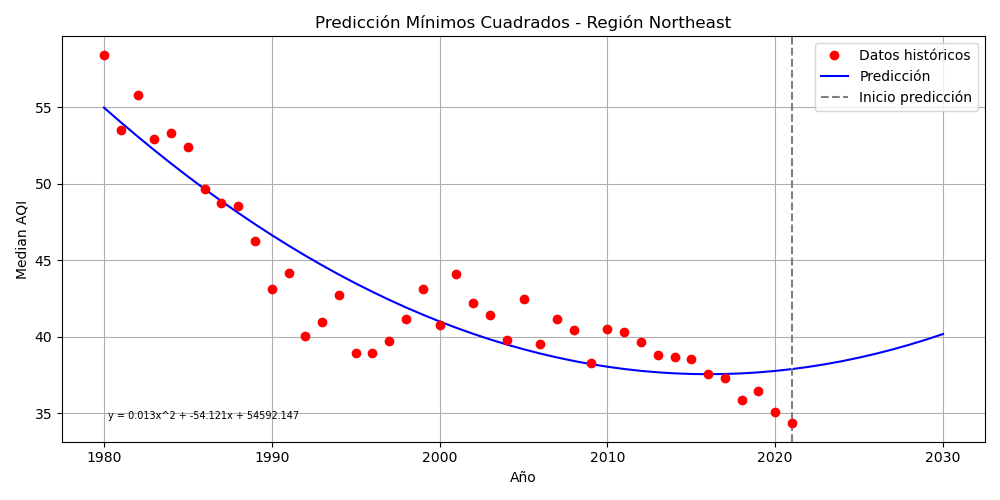
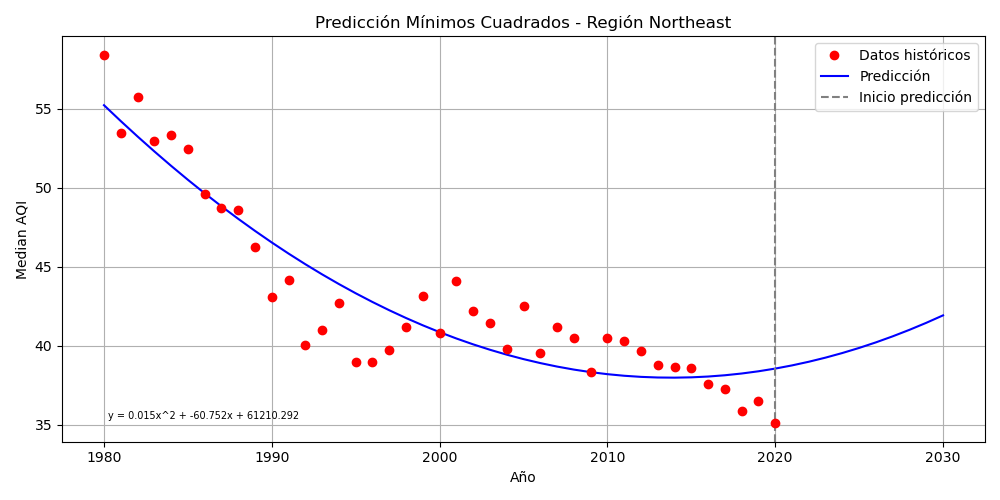
Avance en el informe y cambio de los codigos para graficar

diff --git a/README.md b/README.md
@@ -3,6 +3,95 @@
 
 ## Grupo2_Salud
 
-### Modalidad de trabajo
-- Se está haciendo uso de Notebooks para la implementación temporal del código, esto con el fin de llevar un mejor registro de los cambios o mejorar a realizar en los distintos segmentos del código.
-- Una vez que se concluyan las correcciones, cambios o mejoras del código se unificará en un solo proyecto de Phyton.
+### Integrantes:
+
+- JUSTAILS: Justin Guevara  
+- DRKca089: Derek Cahuate  
+
+### Descripción del proyecto
+
+El proyecto consiste en el análisis de la variación histórica del Índice de Calidad del Aire (AQI) en Estados Unidos durante el periodo 1980–2021, utilizando datos recopilados por la Agencia de Protección Ambiental de los Estados Unidos (EPA). El análisis se realiza agrupando los registros según las cuatro regiones definidas por el Censo de Estados Unidos: Northeast, Midwest, South y West.
+
+Los datos utilizados se limpiaron, normalizarón y agruparon en regiones. Luego se aplicaron los métodos númericos para modelar el comportamiento del AQI. Se utiliza la interpolación del spline cúbico para representar la tendencia histórica del Median AQI, y se usa mínimos cuadrados para realizar extrapolaciones.
+
+Finalmente, los resultados obtenidos son representados graficamente el objetivo de analizar las tendencias del AQI, comparar diferencias entre regiones e identificar seguira su tendencia hacia el futuro.
+
+### Variables utilizadas
+
+Para el análisis se utilizaron las siguientes variables, las cuales se encuentran en el dataset normalizado generado durante la etapa de limpieza:
+
+- **Year:** Año en el que fueron registrados los datos.
+- **Region:** Región geográfica asignada según la clasificación del Censo de Estados Unidos.
+- **Median AQI:** Valor mediano anual del Índice de Calidad del Aire utilizado como variable principal para analizar la tendencia histórica.
+- **AQI level days:** Proporción o cantidad normalizada de días clasificados según las categorías del AQI (Good, Moderate, Unhealthy for Sensitive Groups, Unhealthy, Very Unhealthy y Hazardous).
+- **Pollutant days:** Proporción o cantidad normalizada de días donde cada contaminante fue el principal responsable del AQI registrado (CO, NO2, Ozone, SO2, PM2.5 y PM10).
+
+### Descripción del Github
+
+El repositorio contiene las siguientes carpetas y archivos necesarios para la ejecución y documentación del proyecto. Su estructura se divide en:
+
+- **Avances:** Contiene el informe del proyecto que se actualiza conforme se va avanzando el proyecto.
+- **Codigo:** Incluye los códigos desarrollados en Python para la limpieza del dataset, aplicación de spline cúbico y aplicación de mínimos cuadrados.
+- **Dataset:** Contiene el dataset original obtenido desde Kaggle y el dataset limpiado utilizado para el análisis final.
+- **Graficas:** Almacena las graficas generadas durante la aplicación de splines cúbicos y mínimos cuadrados.
+- **Readme:** Contiene la información general del proyecto. 
+
+### Fases del desarrollo del proyecto
+
+**Fase 1: Preparación y análisis de datos**
+
+Se realizó la limpieza y transformación del dataset original, seleccionando los registros del periodo 1980–2020 debido a la menor disponibilidad de datos en 2021. Se asignó cada registro a una de las cuatro regiones definidas por el Censo de Estados Unidos y se eliminaron valores nulos y registros no válidos.
+
+Además, se normalizaron las variables relacionadas con categorías del AQI y contaminantes mediante proporciones, y los datos fueron agrupados por región y año.
+
+**Fase 2: Aplicación de Splines Cúbicos**
+
+Se implementó el método de interpolación mediante splines cúbicos naturales. Los coeficientes obtenidos permitieron construir funciones polinómicas por tramos para representar la evolución histórica del AQI en cada región, utilizando condiciones de frontera natural.
+
+**Fase 3: Aplicación de Mínimos Cuadrados**
+
+Se aplicó el método de mínimos cuadrados polinómicos para modelar la tendencia del AQI en cada región, utilizando Year como variable independiente y Median AQI como variable dependiente.
+
+Mediante la matriz de Vandermonde se obtuvieron los coeficientes del polinomio de grado 2, utilizado posteriormente para realizar extrapolaciones basadas en la tendencia histórica del AQI.
+
+**Fase 4: Validación del modelo**
+
+En esta fase se compararon los resultados obtenidos mediante los métodos de splines cúbicos y mínimos cuadrados, analizando la tendencia histórica dada por el spline cúbico y su relación con las variables de la distribución de días según las categorías del AQI y los contaminantes principales.
+
+Para el método de mínimos cuadrados se utilizó un ajuste polinómico de grado 2, seleccionado debido a que permite representar la tendencia general del AQI manteniendo una adecuada estabilidad del modelo y evitando oscilaciones excesivas durante la extrapolación.
+
+Para evaluar el comportamiento del modelo, se utilizaron los datos comprendidos entre 1980 y 2015 para realizar el ajuste, mientras que los registros correspondientes al periodo de 2016 a 2020 fueron utilizados como datos de validación. De esta manera, se verificó si la tendencia estimada por los modelos mantiene un comportamiento similar al observado históricamente.
+
+**Fase 5: Interpretación de resultados**
+
+Finalmente, se realizará un análisis comparativo entre las cuatro regiones utilizando las gráficas generadas durante las etapas anteriores.
+
+A partir de estos resultados se buscará identificar:
+
+- Tendencias crecientes o decrecientes del AQI.
+- Contaminantes responsables del nivel del AQI.
+- Diferencias entre regiones.
+- Tendencia futura del comportamiento del AQI.
+
+### Ejecución del proyecto
+
+Para ejecutar el proyecto se deben seguir los siguientes pasos:
+
+1. **Clonar el repositorio**
+
+   Descargar el repositorio de GitHub y acceder a la carpeta principal del proyecto.
+
+2. **Ejecutar el notebook principal**
+
+   Abrir y ejecutar las celdas del archivo `Proyecto.ipynb`, donde se encuentran los procesos de:
+
+   - Limpieza y normalización de datos.
+   - Aplicación de splines cúbicos y mínimos cuadrados.
+   - Generación de gráficas.
+
+3. **Verificación de resultados**
+
+   Al finalizar la ejecución se debe comprobar la generación de los archivos resultantes:
+
+   - El dataset procesado se almacena en la carpeta `dataset`.
+   - Las gráficas generadas por los métodos numéricos se almacenan en la carpeta `graficas`.
